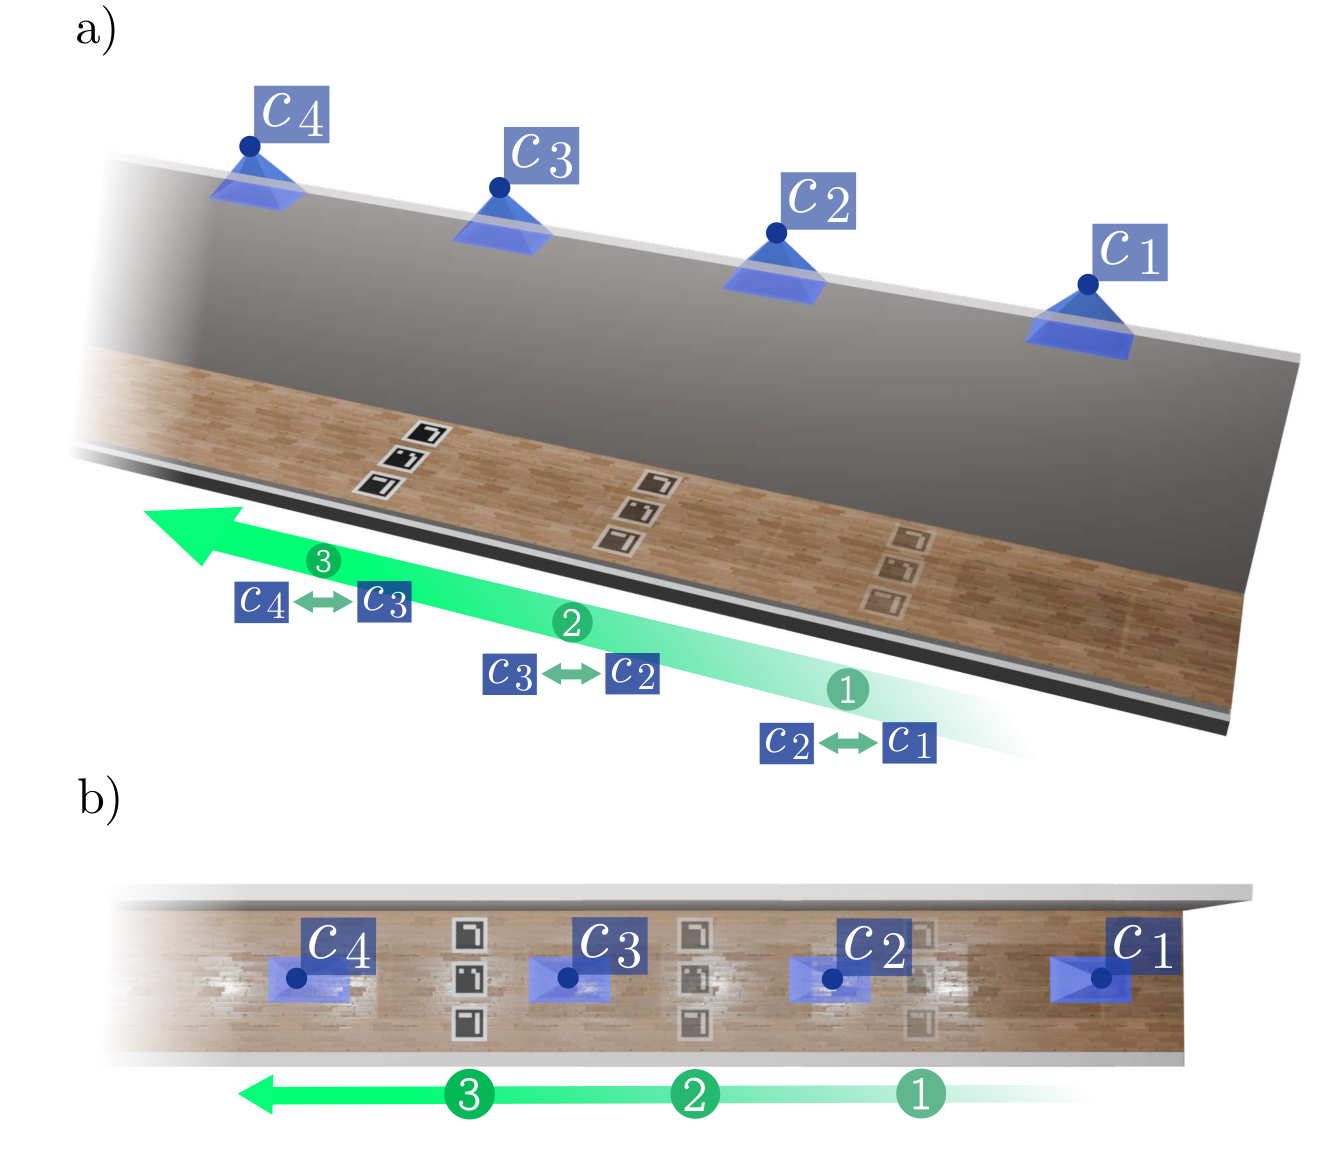
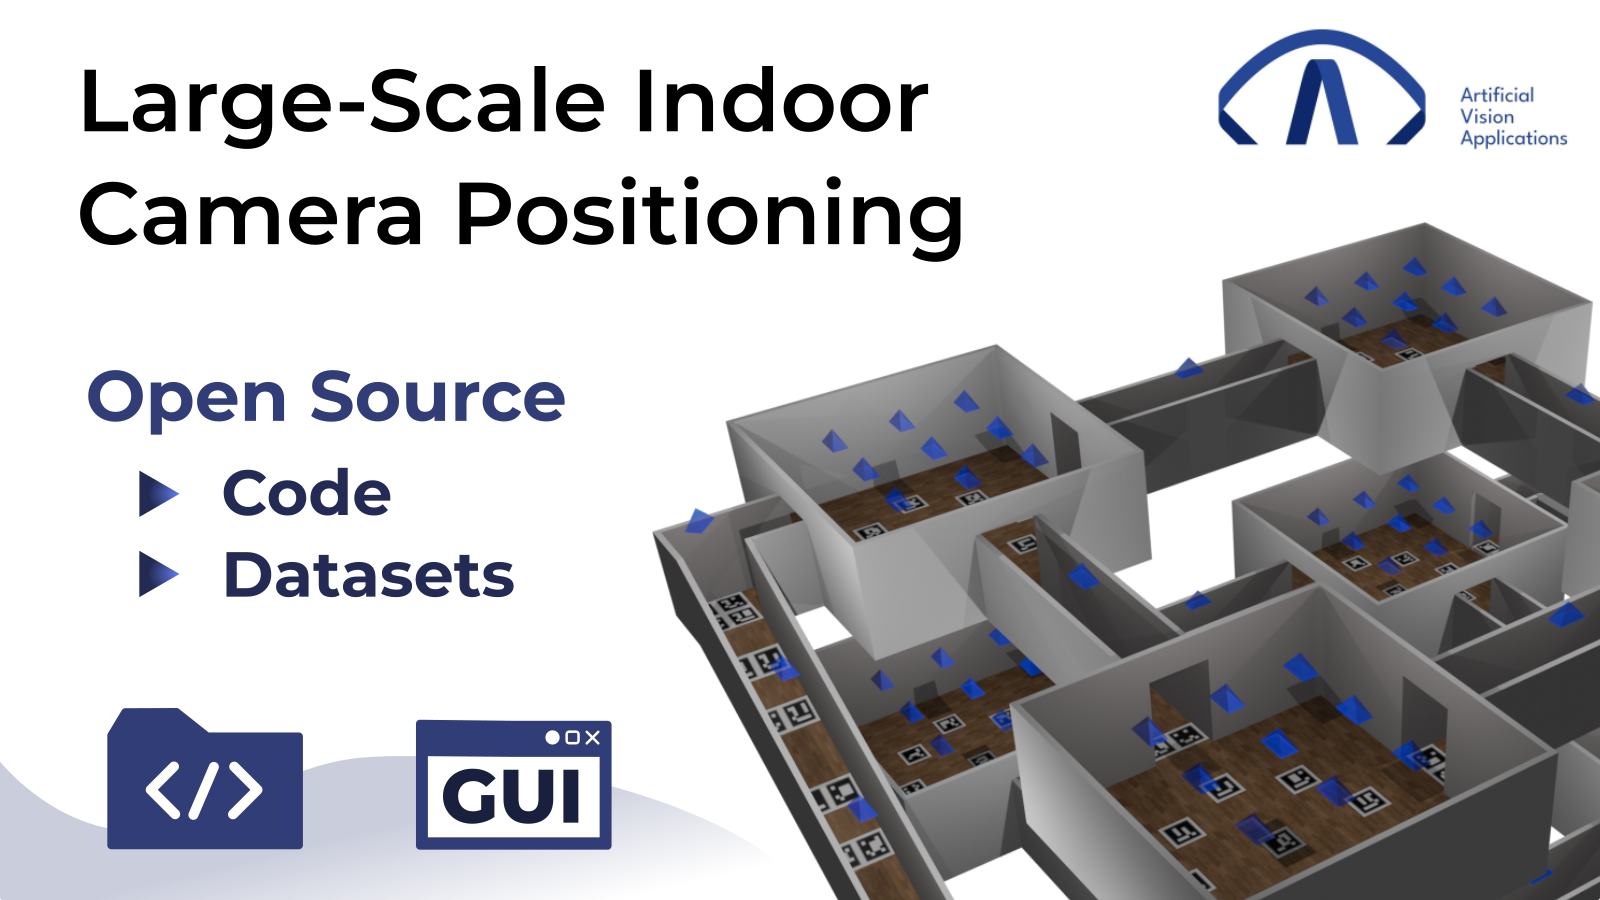
ea

diff --git a/src/data/projects.ts b/src/data/projects.ts
@@ -59,7 +59,7 @@ export const PROJECTS = [
     firstAuthor: true,
     description:
       "Generalised multi-shape multi-marker pose estimation system. Derived from published research.",
-    tags: ["Computer Vision"],
+    tags: ["Computer Vision", "Best Communication Award"],
     link: "/projects/fiducial-objects/",
   },
   {
